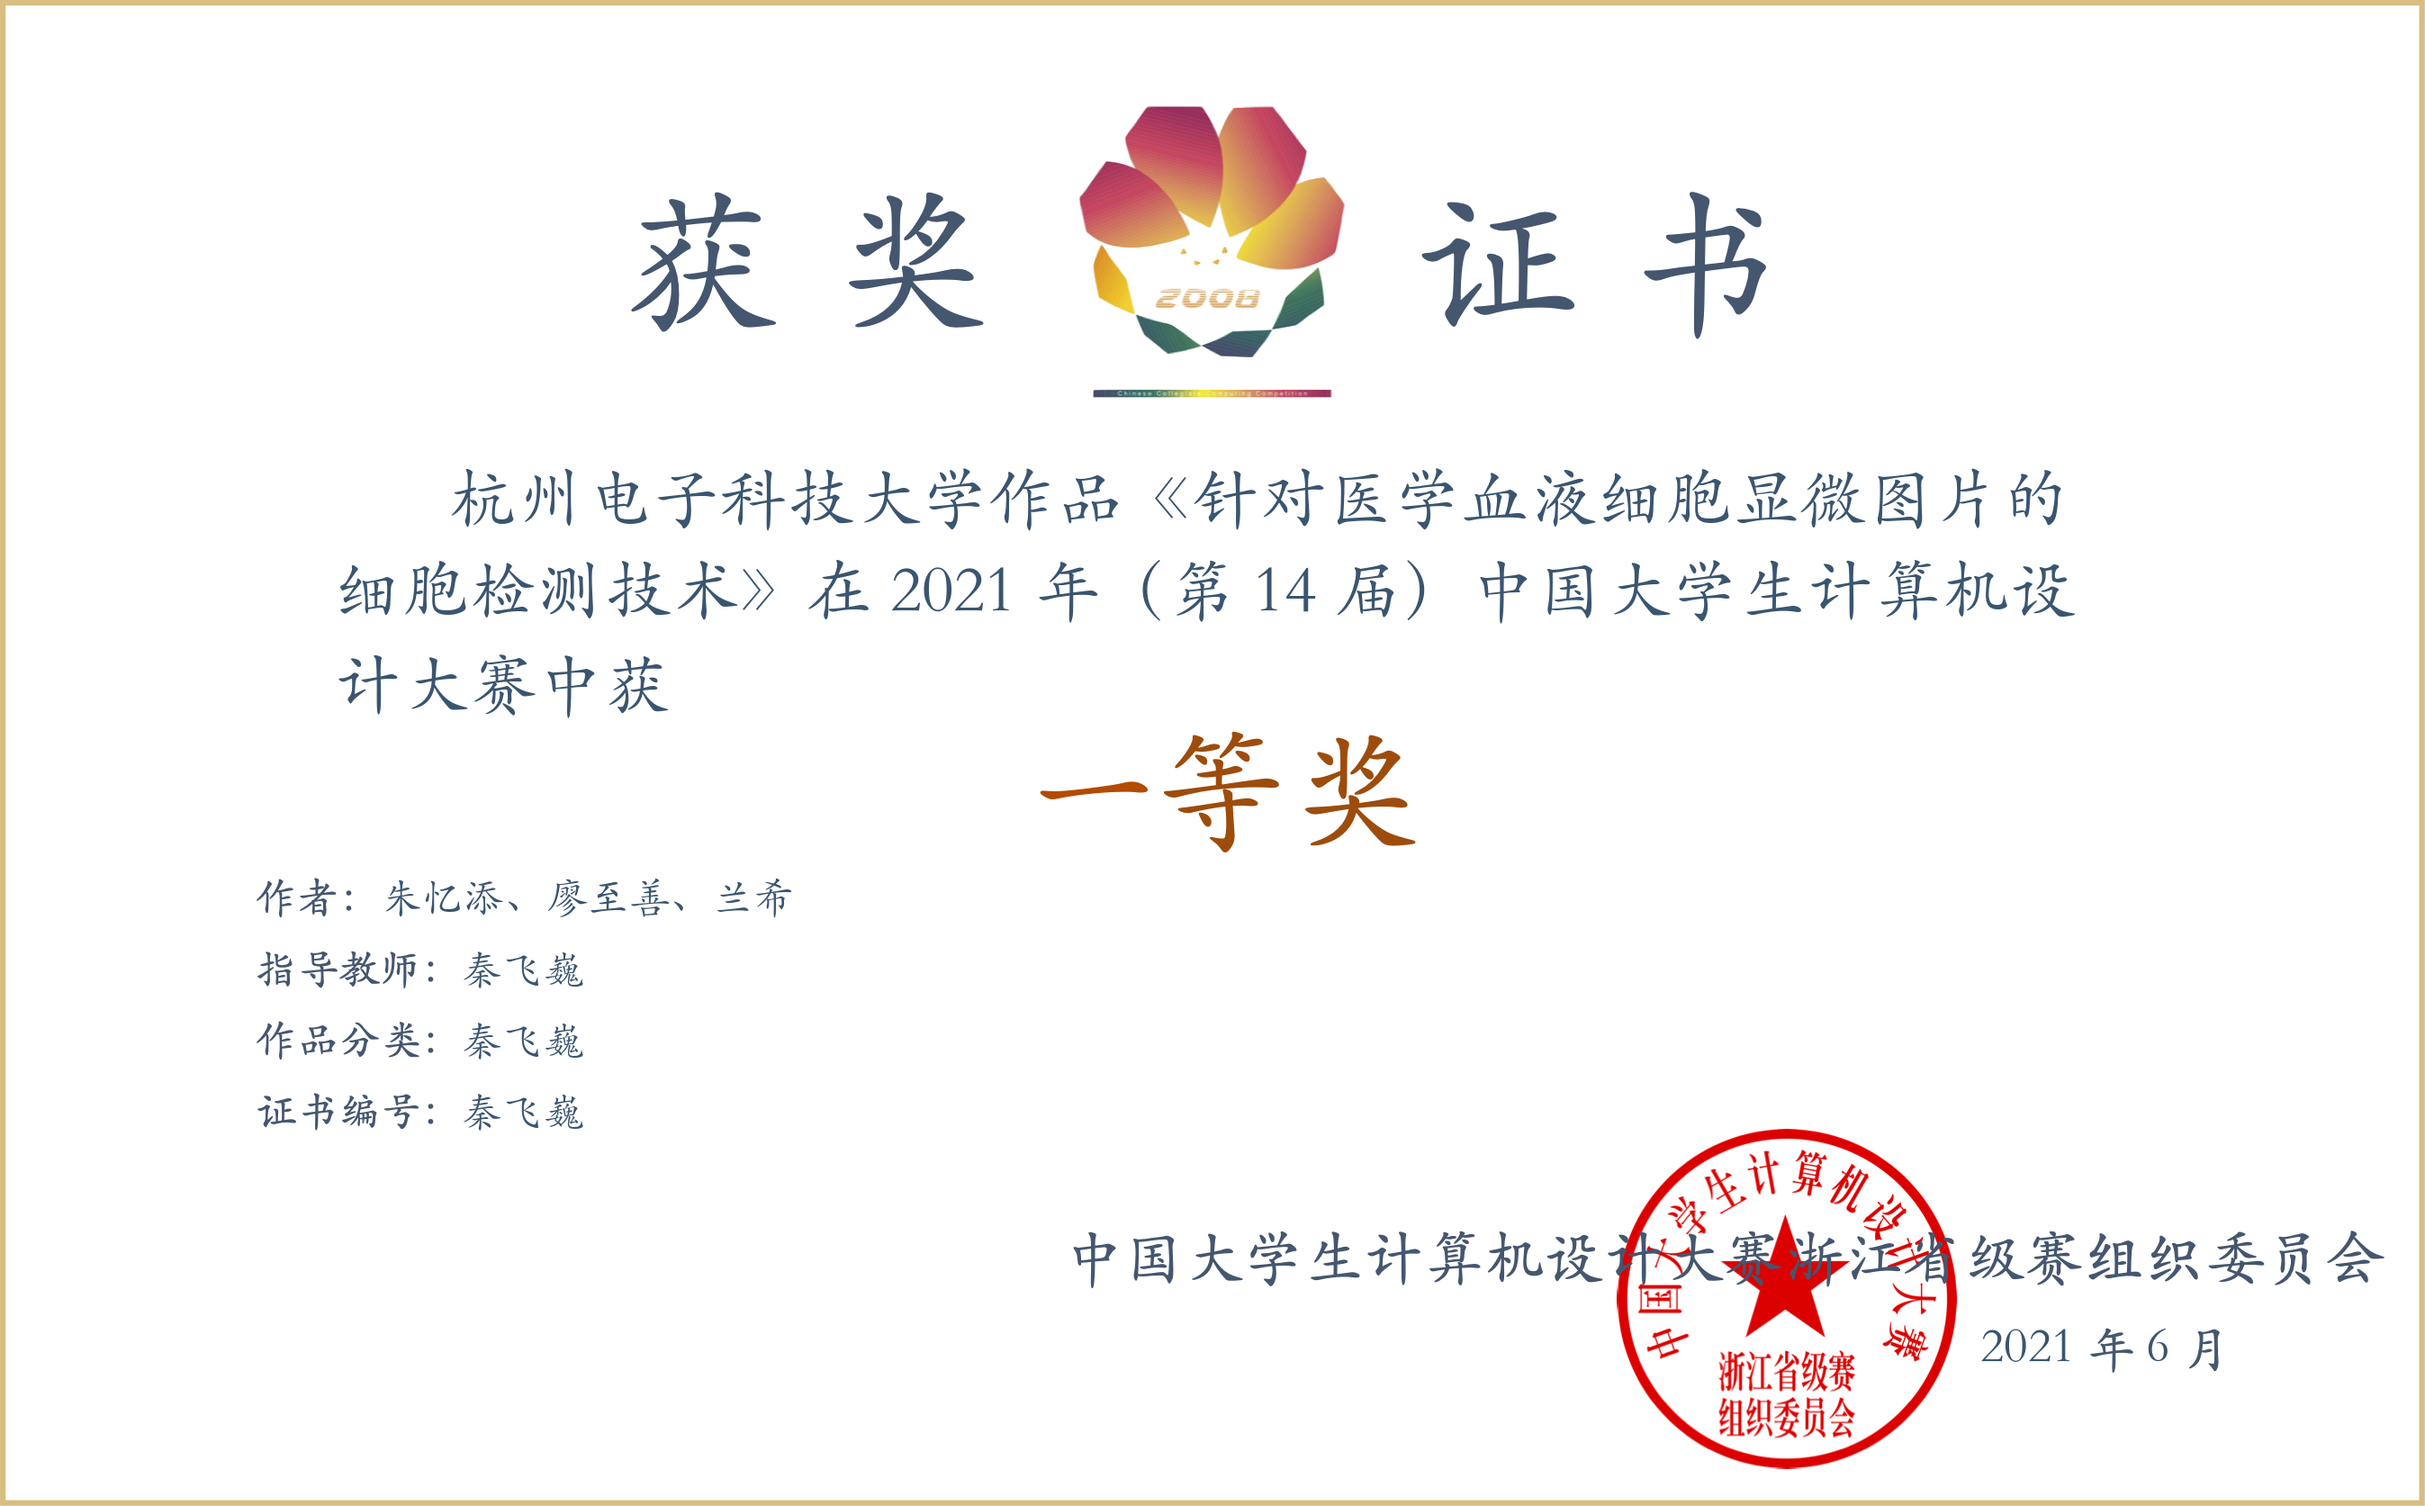
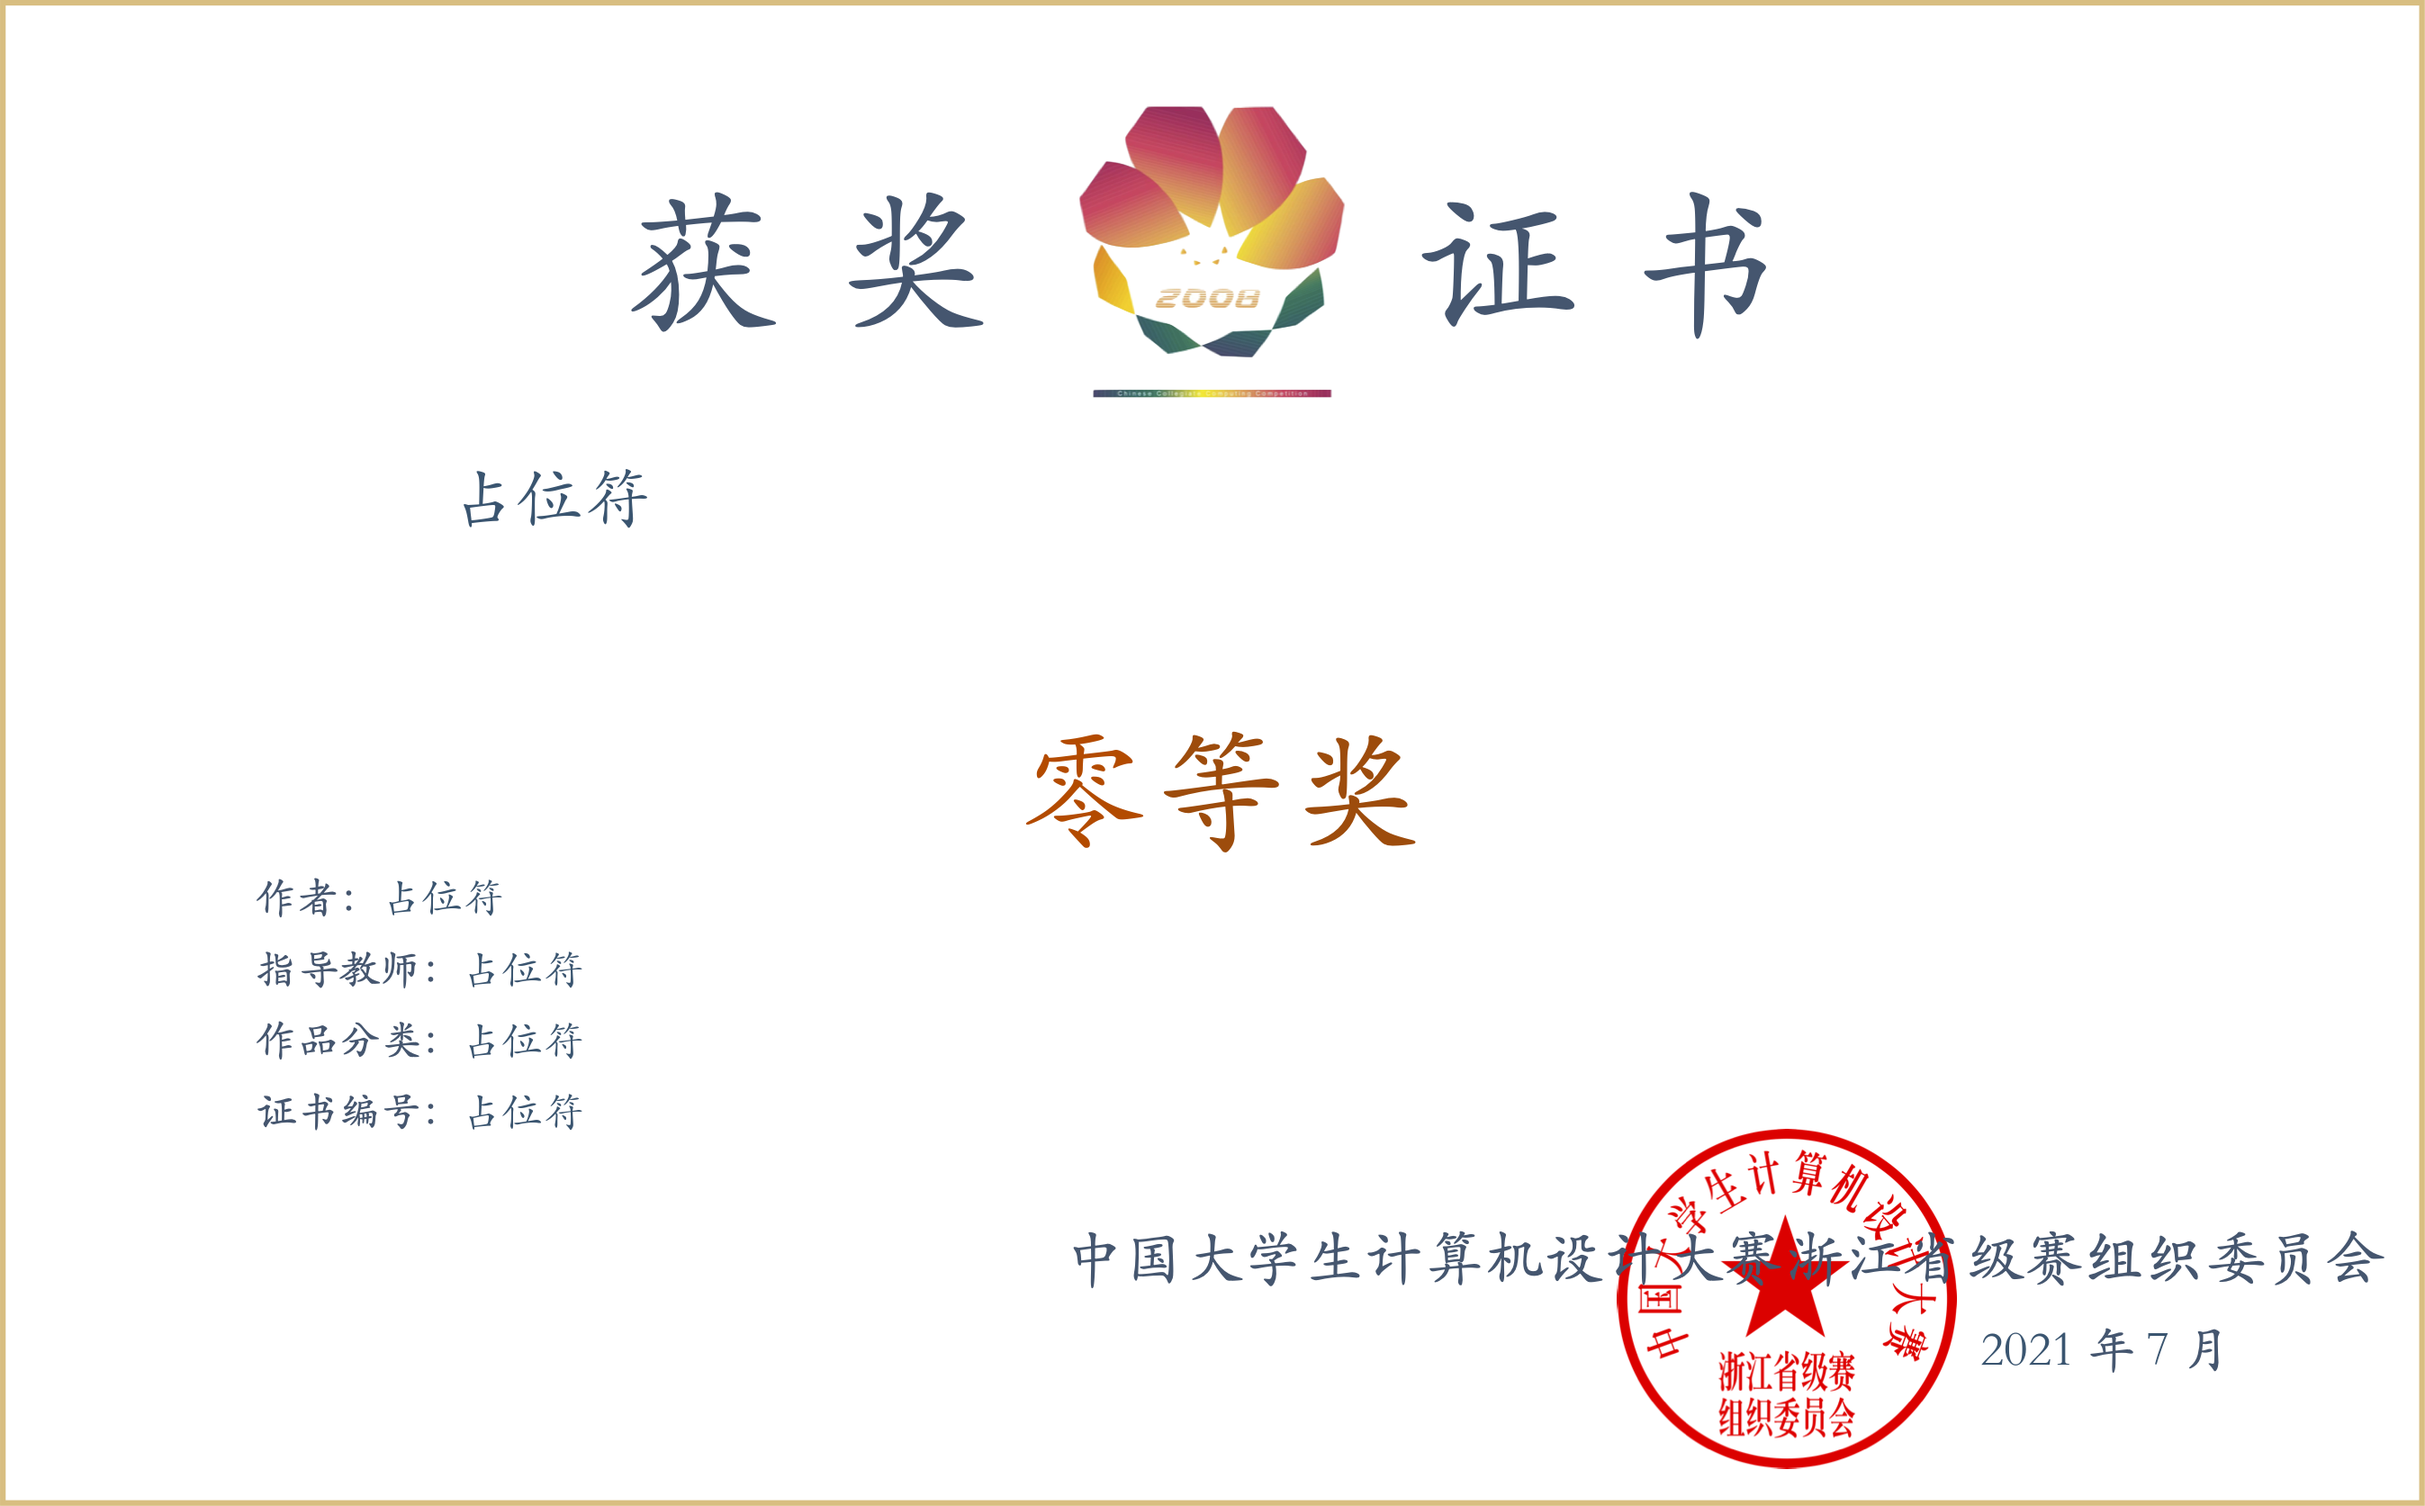
Make a certificate object

diff --git a/main.py b/main.py
@@ -1,108 +1,12 @@
 '''
 批量生产电子奖状
 '''
-from docx.shared import Pt, RGBColor
-from PIL import Image, ImageDraw, ImageFont
 
+from TextProcess import *
+from GenCertificateInfo import CertificateInformation
 
-
-tempFN = r'BlankTemp.png'
-tempImg = Image.open(tempFN)
-tempDraw = ImageDraw.Draw(tempImg)
-
-
-# 定义字体
-STKaiti = './STKaiti.ttf'
-
-
-
-class TextStyle:
-    font_fp = STKaiti
-    size = 100
-    color = RGBColor(0, 0, 0)
-
-    def makeFont(self):
-        fonts = ImageFont.truetype(self.font_fp, size=self.size)
-        return fonts
-
-class awardStyle(TextStyle):
-   size = 144
-   color = RGBColor(179, 75, 0)
-
-   def __init__(self, x, y):
-       self.x = x
-       self.y = y
-
-   def addText(self, text, img=tempDraw):
-       x = self.x
-       y = self.y
-       font = self.makeFont()
-       img.text((x, y), text, font=font, fill=self.color)
-
-class bodyStyle(TextStyle):
-   size = 75
-   color = RGBColor(58, 85, 112)
-
-   def __init__(self, x, y):
-       self.x = x
-       self.y = y
-
-   def addText(self, text, img=tempDraw):
-       x = self.x
-       y = self.y
-       font = self.makeFont()
-       img.text((x, y), text, font=font, fill=self.color)
-
-class infoStyle(TextStyle):
-   size = 46
-   color = RGBColor(58, 85, 112)
-
-   def __init__(self, x, y):
-       self.x = x
-       self.y = y
-
-   def addText(self, text, img=tempDraw):
-       x = self.x
-       y = self.y
-       font = self.makeFont()
-       img.text((x, y), text, font=font, fill=self.color)
-
-class dateStyle(TextStyle):
-   size = 56
-   color = RGBColor(58, 85, 112)
-
-   def __init__(self, x, y):
-       self.x = x
-       self.y = y
-
-   def addText(self, text, img=tempDraw):
-       x = self.x
-       y = self.y
-       font = self.makeFont()
-       img.text((x, y), text, font=font, fill=self.color)
-
-
-AwardTag = awardStyle(1140, 780)
-bodyLine1 = bodyStyle(498, 502)
-bodyLine2 = bodyStyle(370, 604)
-bodyLine3 = bodyStyle(370, 709)
-authorInfo = infoStyle(422, 965)
-teacherInfo = infoStyle(511, 1045)
-classifiedInfo = infoStyle(511, 1124)
-NumInfo = infoStyle(511, 1203)
-yearDate = dateStyle(2200, 1456)
-monDate = dateStyle(2384, 1456)
-
-AwardTag.addText('一')
-bodyLine1.addText('杭州电子科技大学作品《针对医学血液细胞显微图片的')
-bodyLine2.addText('细胞检测技术》在 2021 年（第 14 届）中国大学生计算机设')
-bodyLine3.addText('计大赛中获')
-authorInfo.addText('朱忆添、廖至善、兰希')
-teacherInfo.addText('秦飞巍')
-classifiedInfo.addText('秦飞巍')
-NumInfo.addText('秦飞巍')
-yearDate.addText('2021')
-monDate.addText('6')
+newCert = CertificateInformation()
+newCert.addText()
 
 save_adress = 'zout.png'
 tempImg.save(save_adress)

diff --git a/TextProcess.py b/TextProcess.py
@@ -1,0 +1,85 @@
+from docx.shared import Pt, RGBColor
+from PIL import Image, ImageDraw, ImageFont
+
+tempFN = r'BlankTemp.png'
+tempImg = Image.open(tempFN)
+tempDraw = ImageDraw.Draw(tempImg)
+
+# 定义字体
+STKaiti = './STKaiti.ttf'
+
+class TextStyle:
+    font_fp = STKaiti
+    size = 100
+    color = RGBColor(0, 0, 0)
+
+    def makeFont(self):
+        fonts = ImageFont.truetype(self.font_fp, size=self.size)
+        return fonts
+
+class awardStyle(TextStyle):
+   size = 144
+   color = RGBColor(179, 75, 0)
+
+   def __init__(self, x, y):
+       self.x = x
+       self.y = y
+
+   def addText(self, text, img=tempDraw):
+       x = self.x
+       y = self.y
+       font = self.makeFont()
+       img.text((x, y), text, font=font, fill=self.color)
+
+class bodyStyle(TextStyle):
+   size = 75
+   color = RGBColor(58, 85, 112)
+
+   def __init__(self, x, y):
+       self.x = x
+       self.y = y
+
+   def addText(self, text, img=tempDraw):
+       x = self.x
+       y = self.y
+       font = self.makeFont()
+       img.text((x, y), text, font=font, fill=self.color)
+
+class infoStyle(TextStyle):
+   size = 46
+   color = RGBColor(58, 85, 112)
+
+   def __init__(self, x, y):
+       self.x = x
+       self.y = y
+
+   def addText(self, text, img=tempDraw):
+       x = self.x
+       y = self.y
+       font = self.makeFont()
+       img.text((x, y), text, font=font, fill=self.color)
+
+class dateStyle(TextStyle):
+   size = 56
+   color = RGBColor(58, 85, 112)
+
+   def __init__(self, x, y):
+       self.x = x
+       self.y = y
+
+   def addText(self, text, img=tempDraw):
+       x = self.x
+       y = self.y
+       font = self.makeFont()
+       img.text((x, y), text, font=font, fill=self.color)
+
+AwardTag = awardStyle(1125, 780)
+bodyLine1 = bodyStyle(498, 502)
+bodyLine2 = bodyStyle(370, 604)
+bodyLine3 = bodyStyle(370, 709)
+authorInfo = infoStyle(422, 965)
+teacherInfo = infoStyle(511, 1045)
+classifiedInfo = infoStyle(511, 1124)
+NumInfo = infoStyle(511, 1203)
+yearDate = dateStyle(2200, 1460)
+monDate = dateStyle(2384, 1460)

diff --git a/GenCertificateInfo.py b/GenCertificateInfo.py
@@ -1,0 +1,36 @@
+import time
+from TextProcess import *
+
+class CertificateInformation:
+    AwardClass = '零'
+    bodyText = '占位符'
+    author = '占位符'
+    teacher = '占位符'
+    classified = '占位符'
+    numbers = '占位符'
+
+    def __splitBody(self):
+        L1, L2, L3 = self.bodyText, '', ''
+        return L1, L2, L3
+
+    def __getDateInfo(self):
+        Year  = time.localtime(time.time()).tm_year
+        Mon = time.localtime(time.time()).tm_mon
+        return str(Year), str(Mon)
+
+    def addText(self):
+        AwardTag.addText(self.AwardClass)
+
+        L1, L2, L3 = self.__splitBody()
+        bodyLine1.addText(L1)
+        bodyLine2.addText(L2)
+        bodyLine3.addText(L3)
+
+        authorInfo.addText(self.author)
+        teacherInfo.addText(self.teacher)
+        classifiedInfo.addText(self.classified)
+        NumInfo.addText(self.numbers)
+
+        year, month = self.__getDateInfo()
+        yearDate.addText(year)
+        monDate.addText(month)
